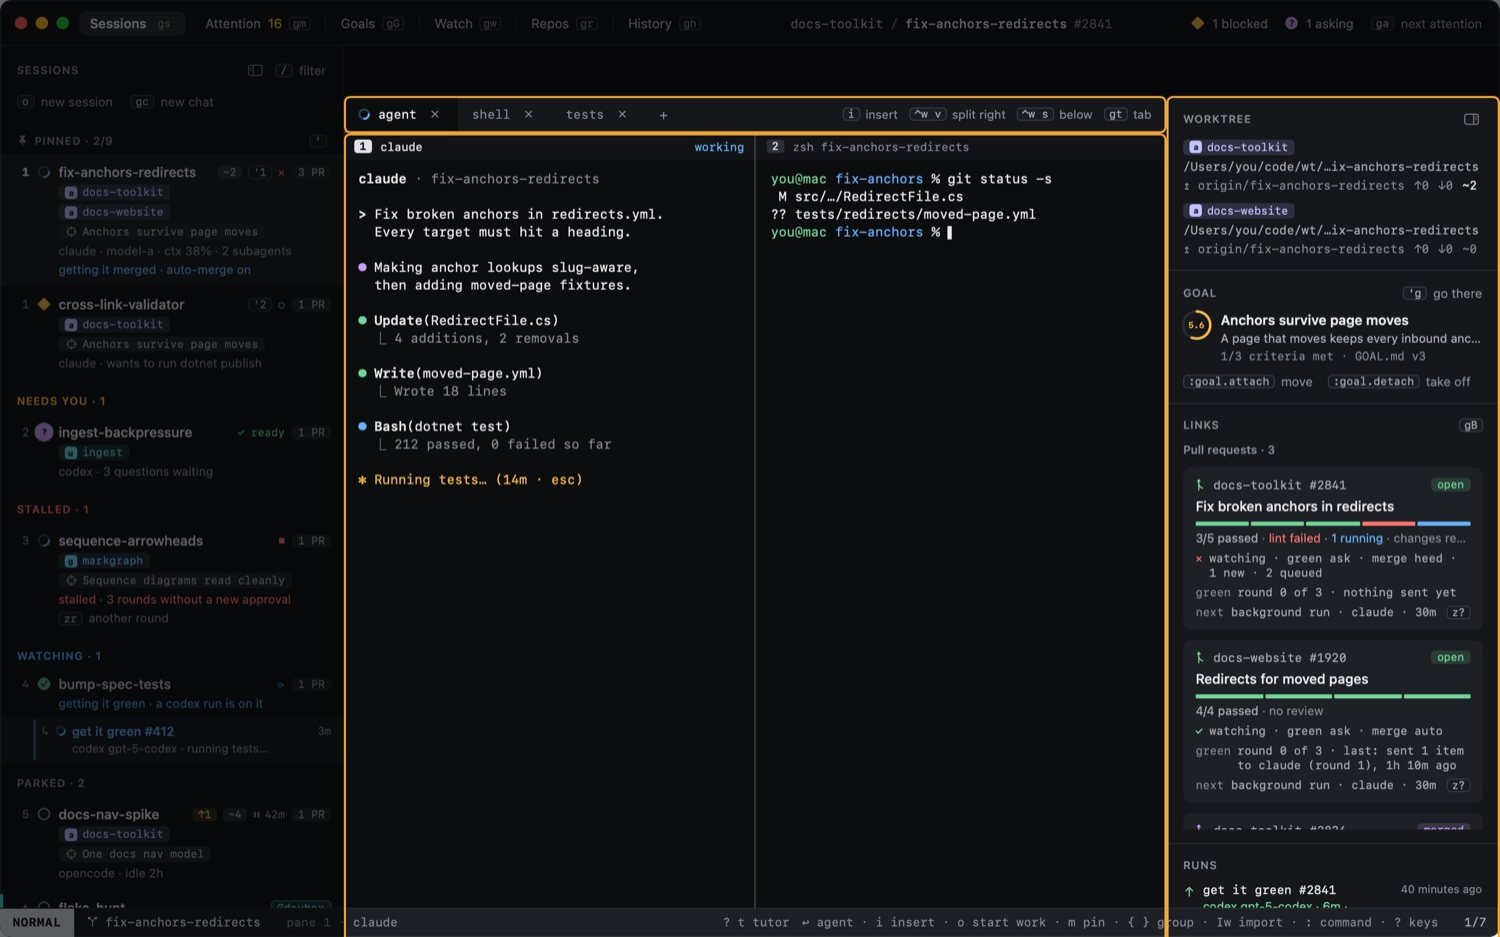
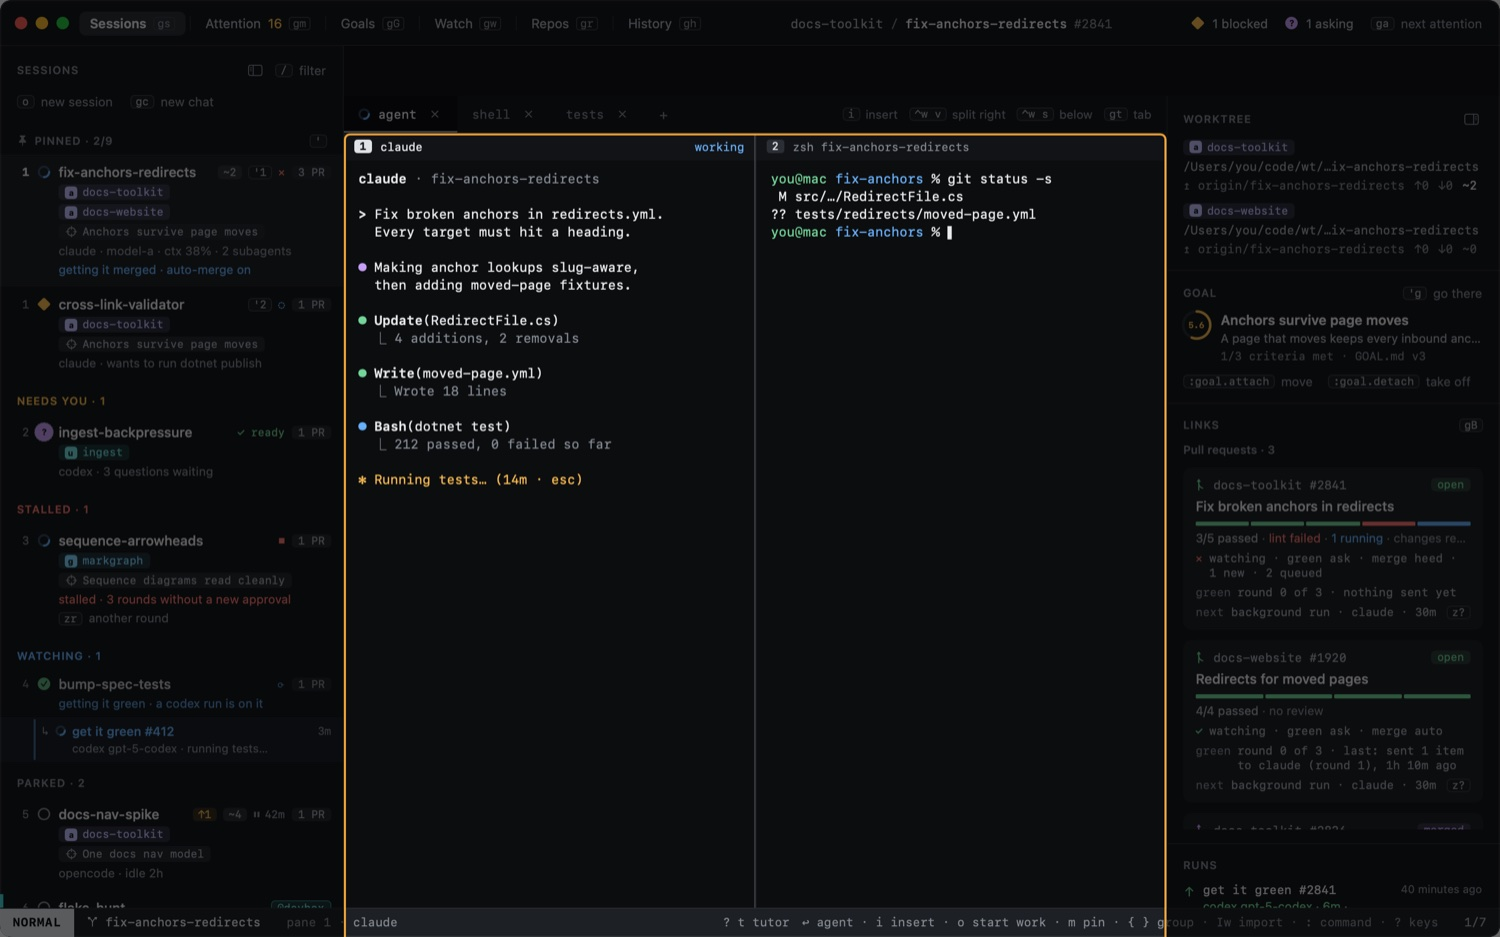
Use a Sessions-view screenshot that is not in tutor mode for heed

Changed region(s): [[0.2147, 0.0928, 1.0, 1.0]]

diff --git a/index.html b/index.html
@@ -272,7 +272,7 @@
       <div class="bar"><span class="lights" aria-hidden="true"><i></i><i></i><i></i></span><span class="title" aria-hidden="true">heed</span></div>
       <div class="body">
         <div class="head"><img src="assets/apps/heed.png" alt="" width="56" height="56"><div><h2 id="heed-h">heed <span class="tag">ADE</span></h2><p>An agentic development environment: keyboard-driven, and it doesn't stop at worktree sessions. An autopilot system to shepherd your work to completion, a real memory system of summaries and decisions, and SO much more.</p><p class="agents"><b>Bring your own agent:</b> Claude, Codex, Cursor, pi, opencode and more.</p></div></div>
-        <div class="media"><div class="media-in"><img class="art" src="assets/art/heed-app.jpg" alt="heed's sessions view: sessions grouped by what needs you, a Claude agent working beside a shell, and the worktree and pull request panel" width="1500" height="938" loading="lazy"></div></div>
+        <div class="media"><div class="media-in"><img class="art" src="assets/art/heed-app.jpg" alt="heed's sessions view: sessions grouped by what needs you, a Claude agent working beside a shell, and the worktree and pull request panel" width="1500" height="937" loading="lazy"></div></div>
         <div class="actions"><a class="btn primary" href="https://heed.build/"><svg class="ico line" aria-hidden="true"><use href="#i-globe"/></svg>heed.build</a><a class="btn" href="https://github.com/heed-build/heed"><svg class="ico" aria-hidden="true"><use href="#i-github"/></svg>GitHub</a></div>
         <div class="cmd"><code><b>$</b> brew install --cask heed-build/tap/heed</code><button class="copy" type="button" data-copy="brew install --cask heed-build/tap/heed">Copy</button></div>
         <p class="ext">heed lives in its own org and tap.</p>
